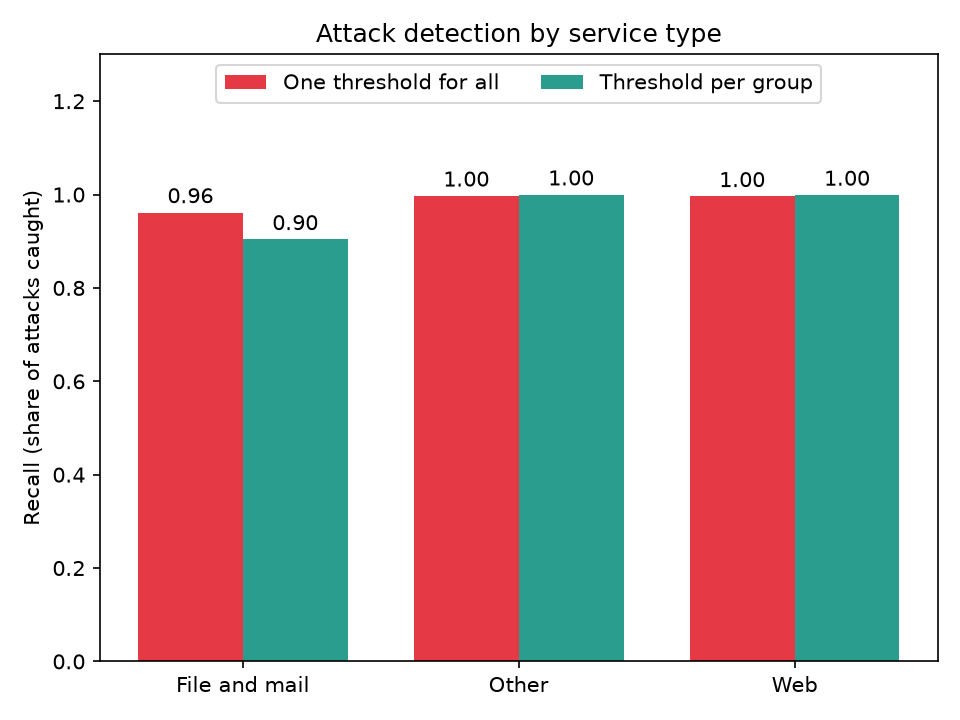
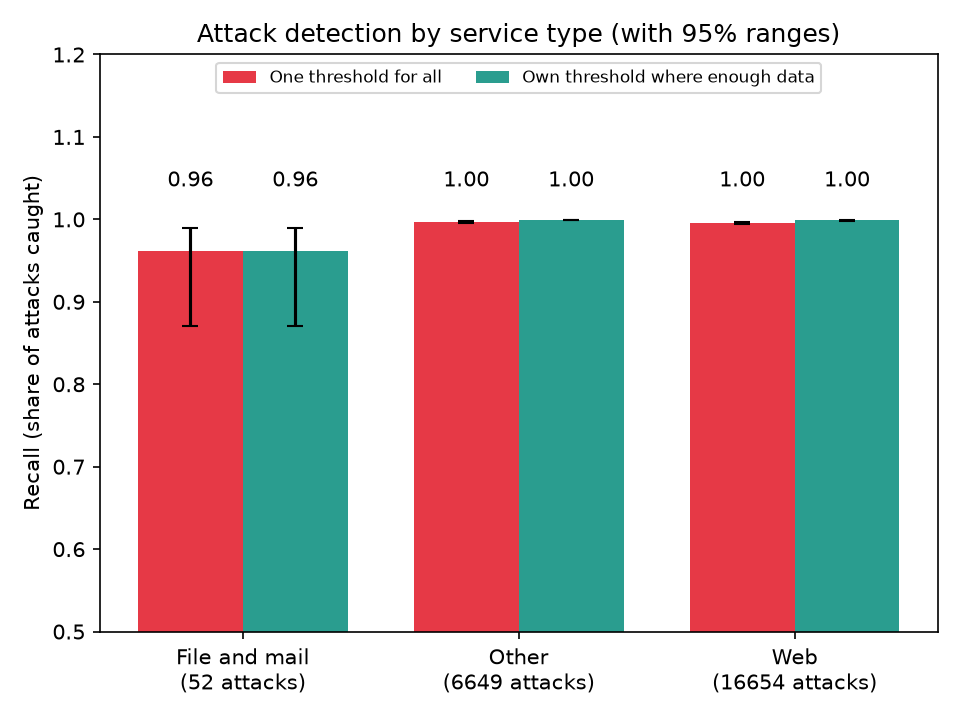
Tool 2 v2: fairness check with 95% ranges and safer thresholds

diff --git a/tool2_fairness/fairness_check.py b/tool2_fairness/fairness_check.py
@@ -12,9 +12,10 @@ from sklearn.model_selection import train_test_split
 sys.path.insert(0, str(Path(__file__).resolve().parent.parent / "tool1_drift"))
 from train import load
 
-SAMPLE = 50000      # must match pipeline.py
-MIN_ATTACKS = 30    # a group needs this many attacks in the test data to count
-FA_CAP = 0.005      # allowed false-alarm rate when picking a threshold (0.5%)
+SAMPLE = 50000          # must match pipeline.py
+MIN_ATTACKS = 30        # a group needs this many attacks in the TEST data to be compared
+MIN_VAL_ATTACKS = 50    # a group needs this many attacks in the TUNING data to get its own threshold
+FA_CAP = 0.005          # allowed false-alarm rate when picking a threshold (0.5%)
 
 GROUPS = {
     "Web": {80, 443, 8080},
@@ -31,32 +32,44 @@ def group_of(port):
     return "Other"
 
 
+def wilson(k, n, z=1.96):
+    """95% range for a share (caught k out of n). Small groups give wide ranges."""
+    if n == 0:
+        return np.nan, np.nan
+    ph = k / n
+    d = 1 + z ** 2 / n
+    centre = (ph + z ** 2 / (2 * n)) / d
+    half = z * np.sqrt(ph * (1 - ph) / n + z ** 2 / (4 * n ** 2)) / d
+    return centre - half, centre + half
+
+
 def metrics(y, pred):
     attacks = int((y == 1).sum())
     normal = int((y == 0).sum())
     caught = int(((pred == 1) & (y == 1)).sum())
     false_alarms = int(((pred == 1) & (y == 0)).sum())
+    lo, hi = wilson(caught, attacks)
     return {
-        "attacks": attacks,
-        "normal": normal,
+        "attacks": attacks, "normal": normal, "caught": caught,
         "recall": caught / attacks if attacks else np.nan,
+        "low": lo, "high": hi,
         "false_alarm_rate": false_alarms / normal if normal else np.nan,
     }
 
 
 def pick_threshold(p, y):
-    """Best alert threshold for one group: most attacks caught
-    while keeping false alarms under FA_CAP."""
-    if (y == 1).sum() < 10 or (y == 0).sum() < 10:
-        return 0.5
+    """Best alert level for one group: most attacks caught while keeping
+    false alarms under FA_CAP. Groups with too little tuning data keep 0.5."""
+    if (y == 1).sum() < MIN_VAL_ATTACKS or (y == 0).sum() < 10:
+        return 0.5, False
     best_t, best_recall = 0.5, -1.0
-    for t in np.arange(0.95, 0.04, -0.05):   # high to low, so ties keep the higher threshold
+    for t in np.arange(0.95, 0.04, -0.05):
         pred = p >= t
         fa = (pred & (y == 0)).sum() / (y == 0).sum()
         rec = (pred & (y == 1)).sum() / (y == 1).sum()
         if fa <= FA_CAP and rec > best_recall + 1e-9:
             best_t, best_recall = float(t), rec
-    return round(best_t, 2)
+    return round(best_t, 2), True
 
 
 # 1. Rebuild the same held-out data that pipeline.py never trained on
@@ -83,9 +96,10 @@ g_test = X_test["Destination Port"].astype(int).map(group_of).values
 # 3. Before: one threshold (0.5) for everyone
 pred_before = (p_test >= 0.5).astype(int)
 
-# 4. Fix: one threshold per group, picked on the validation data
-thresholds = {g: pick_threshold(p_val[g_val == g], y_val[g_val == g])
-              for g in sorted(set(g_val))}
+# 4. Fix: own threshold only for groups with enough tuning data
+thresholds, tuned = {}, {}
+for g in sorted(set(g_val)):
+    thresholds[g], tuned[g] = pick_threshold(p_val[g_val == g], y_val[g_val == g])
 pred_after = np.array(
     [int(p >= thresholds.get(g, 0.5)) for p, g in zip(p_test, g_test)])
 
@@ -97,56 +111,73 @@ for g in sorted(set(g_test)):
     a = metrics(y_test[m], pred_after[m])
     rows.append({
         "group": g, "attacks": b["attacks"], "normal": b["normal"],
-        "recall_before": b["recall"], "recall_after": a["recall"],
-        "false_alarm_before": b["false_alarm_rate"],
-        "false_alarm_after": a["false_alarm_rate"],
-        "threshold": thresholds.get(g, 0.5),
+        "recall_before": b["recall"], "before_low": b["low"], "before_high": b["high"],
+        "recall_after": a["recall"], "after_low": a["low"], "after_high": a["high"],
+        "false_alarm_before": b["false_alarm_rate"], "false_alarm_after": a["false_alarm_rate"],
+        "threshold": thresholds.get(g, 0.5), "own_threshold": tuned.get(g, False),
         "counted": b["attacks"] >= MIN_ATTACKS,
     })
 b = metrics(y_test, pred_before)
 a = metrics(y_test, pred_after)
 rows.append({
     "group": "ALL TRAFFIC", "attacks": b["attacks"], "normal": b["normal"],
-    "recall_before": b["recall"], "recall_after": a["recall"],
-    "false_alarm_before": b["false_alarm_rate"],
-    "false_alarm_after": a["false_alarm_rate"],
-    "threshold": np.nan, "counted": True,
+    "recall_before": b["recall"], "before_low": b["low"], "before_high": b["high"],
+    "recall_after": a["recall"], "after_low": a["low"], "after_high": a["high"],
+    "false_alarm_before": b["false_alarm_rate"], "false_alarm_after": a["false_alarm_rate"],
+    "threshold": np.nan, "own_threshold": False, "counted": True,
 })
 res = pd.DataFrame(rows)
 res.to_csv("docs/fairness_results.csv", index=False)
-print(res.round(4).to_string(index=False))
+show = ["group", "attacks", "recall_before", "before_low", "before_high",
+        "recall_after", "false_alarm_before", "false_alarm_after", "threshold", "own_threshold"]
+print(res[show].round(4).to_string(index=False))
 
-# 6. The gap between the best and worst group
+# 6. The gap between the best and worst group, and whether it could be noise
 c = res[res["counted"] & (res["group"] != "ALL TRAFFIC")]
 if len(c) >= 2:
     gap_b = c["recall_before"].max() - c["recall_before"].min()
     gap_a = c["recall_after"].max() - c["recall_after"].min()
+    best = c.loc[c["recall_before"].idxmax()]
+    worst = c.loc[c["recall_before"].idxmin()]
     print(f"\nGap between best and worst group: before {gap_b:.3f}, after {gap_a:.3f}")
-    print(f"Groups counted: {', '.join(c['group'])}")
+    print(f"Best: {best['group']} ({best['recall_before']:.3f}). "
+          f"Worst: {worst['group']} ({worst['recall_before']:.3f}, "
+          f"95% range {worst['before_low']:.3f} to {worst['before_high']:.3f})")
+    if best["before_low"] > worst["before_high"]:
+        print("The gap is larger than the noise: it is probably real.")
+    else:
+        print("The ranges overlap: the gap could be noise from small groups.")
+    print(f"Groups compared: {', '.join(c['group'])}")
 else:
     print("\nFewer than 2 groups have enough attacks to compare.")
 
 small = res[~res["counted"]]["group"].tolist()
 if small:
-    print("Too few attacks to count:", ", ".join(small))
+    print("Too few attacks to compare:", ", ".join(small))
+own = [g for g, v in tuned.items() if v]
+print("Groups with their own threshold:", ", ".join(own) if own else "none")
 
-# 7. Chart
+# 7. Chart with 95% ranges
 if len(c) >= 1:
     x = np.arange(len(c))
     w = 0.38
+    err_b = [c["recall_before"] - c["before_low"], c["before_high"] - c["recall_before"]]
+    err_a = [c["recall_after"] - c["after_low"], c["after_high"] - c["recall_after"]]
     fig, ax = plt.subplots()
-    b1 = ax.bar(x - w / 2, c["recall_before"], w, label="One threshold for all", color="#e63946")
-    b2 = ax.bar(x + w / 2, c["recall_after"], w, label="Threshold per group", color="#2a9d8f")
+    b1 = ax.bar(x - w / 2, c["recall_before"], w, yerr=err_b, capsize=4,
+                label="One threshold for all", color="#e63946")
+    b2 = ax.bar(x + w / 2, c["recall_after"], w, yerr=err_a, capsize=4,
+                label="Own threshold where enough data", color="#2a9d8f")
     for bars in (b1, b2):
         for bar in bars:
-            ax.text(bar.get_x() + bar.get_width() / 2, bar.get_height() + 0.02,
+            ax.text(bar.get_x() + bar.get_width() / 2, 1.04,
                     f"{bar.get_height():.2f}", ha="center")
     ax.set_xticks(x)
-    ax.set_xticklabels(c["group"])
-    ax.set_ylim(0, 1.3)
+    ax.set_xticklabels([f"{g}\n({n} attacks)" for g, n in zip(c["group"], c["attacks"])])
+    ax.set_ylim(0.5, 1.2)
     ax.set_ylabel("Recall (share of attacks caught)")
-    ax.set_title("Attack detection by service type")
-    ax.legend(loc="upper center", ncol=2)
+    ax.set_title("Attack detection by service type (with 95% ranges)")
+    ax.legend(loc="upper center", ncol=2, fontsize=8)
     plt.tight_layout()
     plt.savefig("docs/fairness_chart.png", dpi=150)
     print("Saved docs/fairness_results.csv and docs/fairness_chart.png")

diff --git a/PROGRESS_LOG.md b/PROGRESS_LOG.md
@@ -1,1 +1,3 @@
 2026-11-07 | Tool 1 release v0.1.0 archived on Zenodo. DOI: 10.5281/zenodo.8475
+
+2026-11-07 | Tool 2 v1: recall by service type. Gap best-worst 0.036 before, 0.096 after per-group thresholds. Fix hurt File and mail (0.962 to 0.904, only 52 attacks, tuning set too small). DNS and Remote login too small to compare. Chart: docs/fairness_chart.png
